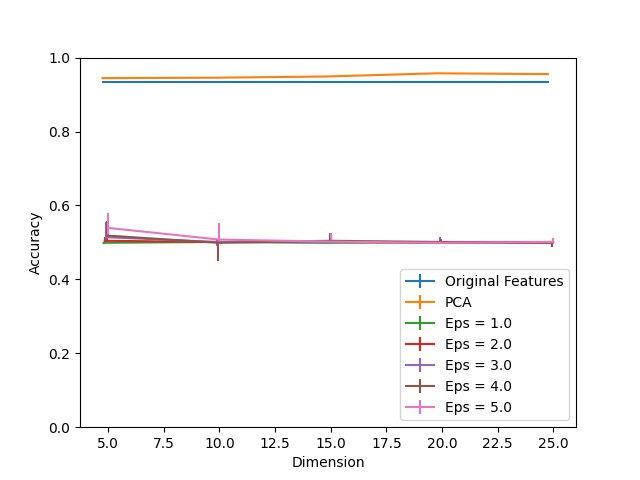
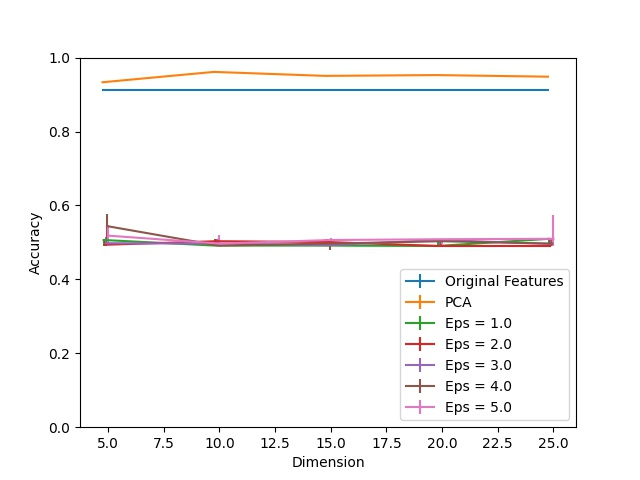
Add epilepsy join experiments with perfect membership

Changed region(s): [[0.1562, 0.125, 0.875, 0.2188], [0.1562, 0.4375, 0.875, 0.5312]]

diff --git a/multi-dim-featcreation/Submission_Plots/Replot.py b/multi-dim-featcreation/Submission_Plots/Replot.py
@@ -2,24 +2,24 @@ import matplotlib.pyplot as plt
 import pandas as pd
 import numpy as np
 
-algs = ['AdaBoost']
+algs = ['RandomForest']
 num_trials = 25
 total_eps_list = [1.0, 2.0, 3.0, 4.0, 5.0]
 for alg in algs:
-	file = 'epilepticjoin_pca_%s_trials=%i' % (alg.lower(), num_trials)
+	file = 'covtype67join_rffrealclip_%s_trials=%i' % (alg.lower(), num_trials)
 	alg_df = pd.read_csv('%s.csv' % file)
 	alg_df = alg_df.set_index('Dimension')
 	print(alg_df)
 
 	shift = -0.25
 	# Edit!
-	plt.ylim((0.25, 1.05))
+	plt.ylim((0.15, 1.05))
 	plt.errorbar(alg_df.index + shift, alg_df['Original Features'], \
 		yerr = np.zeros(shape = (2, len(alg_df))), label = 'Original Features', linestyle = 'dashed')
-	plt.errorbar(alg_df.index + shift, alg_df['PCA'], \
-	 	yerr = np.zeros(shape = (2, len(alg_df))), label = 'PCA (No Privacy)')
-	# plt.errorbar(alg_df.index + shift, alg_df['RFF Real'], \
-	#  	yerr = alg_df[['RFF Real 25', 'RFF Real 75']].to_numpy().T, label = 'Real RFFs (No Privacy)')
+	# plt.errorbar(alg_df.index + shift, alg_df['PCA'], \
+	#  	yerr = np.zeros(shape = (2, len(alg_df))), label = 'PCA (No Privacy)')
+	plt.errorbar(alg_df.index + shift, alg_df['RFF Real'], \
+	 	yerr = alg_df[['RFF Real 25', 'RFF Real 75']].to_numpy().T, label = 'Real RFFs (No Privacy)')
 	shift += 0.05
 	for total_eps in total_eps_list:
 		if total_eps == 2.0 or total_eps == 4.0:
@@ -28,9 +28,9 @@ for alg in algs:
 			yerr = alg_df[['Eps = %s 25' % str(total_eps), 'Eps = %s 75' % str(total_eps)]].to_numpy().T, label = 'Eps = %s' % str(total_eps))
 		shift += 0.05
 
-	plt.xlabel("# Principal Components")
+	plt.xlabel("# RFFs")
 	plt.ylabel("Accuracy")
-	plt.title('Accuracy of AdaBoost on Epilepsy Dataset (PCA)')
+	plt.title('Accuracy of Random Forest on Forest Cover 6/7 (RFFs)')
 	plt.legend(loc = "upper right")
 	plt.savefig('%s.jpg' % file)
 	plt.close()

diff --git a/multi-dim-featcreation/epileptic/epilepticjoin_privaterff_real.py b/multi-dim-featcreation/epileptic/epilepticjoin_privaterff_real.py
@@ -163,8 +163,8 @@ if __name__ == "__main__":
 			sens_list = [2 ** (0.5) for i in range(dim)]
 			for total_eps in total_eps_list:
 				print('Total Eps = %s' % str(total_eps))
-				eps_memb = total_eps / (dim + 1)
-				eps_val = total_eps - eps_memb
+				eps_memb = 1000 # total_eps / (dim + 1)
+				eps_val = total_eps - total_eps / (dim + 1)
 
 				dp_join = DP_Join(eps_memb, eps_val, sens_list) 
 				dp_join.join(l_train, f_train_rff, 'Real Clip') 
@@ -190,7 +190,7 @@ if __name__ == "__main__":
 		alg_df = alg_df 
 		print(alg_df)
 
-		file = 'epilepticjoin_rffrealclip_%s_trials=%i' % (alg.lower(), num_trials)
+		file = 'epilepticjoinmembperfect_rffrealclip_%s_trials=%i' % (alg.lower(), num_trials)
 		alg_df.to_csv('%s.csv' % file)
 		shift = -0.25
 		plt.ylim((0.0, 1.0))

diff --git a/multi-dim-featcreation/epileptic/epilepticjoin_privatepca.py b/multi-dim-featcreation/epileptic/epilepticjoin_privatepca.py
@@ -123,9 +123,7 @@ if __name__ == "__main__":
 	l_test = l_test.loc[index_test]
 
 	f_mean = np.mean(f_train, axis = 0, keepdims = True).reshape((-1, f_train.shape[1]))
-	print(f_train)
 	f_train = f_train - f_mean
-	print(f_train)
 	f_test = f_test - f_mean
 
 	sketch_dim = [5, 10, 15, 20, 25]
